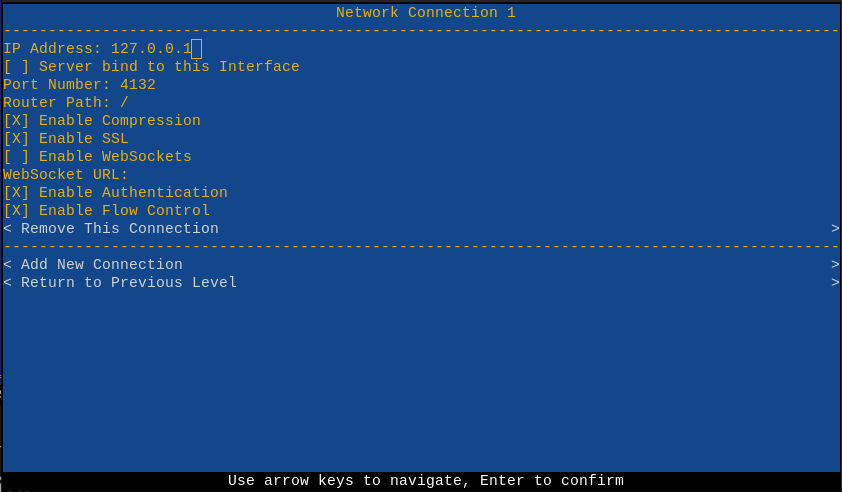
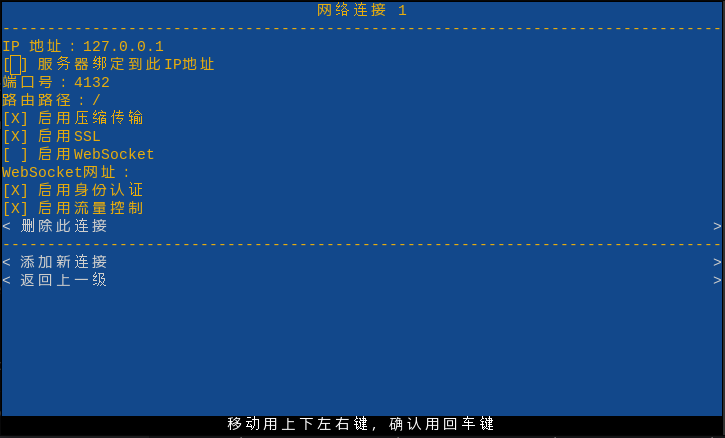
. tools/README_cn.md, rpcfgtui-config-list.png, rpcfgtui-connection-page.png, rpcfgtui-main-menu.png, rpcfgtui-multihop-page.png, rpcfgtui-security-page.png: Switched the language to Chinese and added figures for security page and multihop page.

Changed region(s): [[0.0, 0.0, 1.0, 0.653], [0.0, 0.9498, 1.0, 1.0], [0.971, 0.4452, 1.0, 0.653]]

diff --git a/tools/README_cn.md b/tools/README_cn.md
@@ -97,9 +97,14 @@
       ![`rpcfgtui` main menu](../pics/rpcfgtui-main-menu.png)
     * 下图是连接页   
       ![`rpcfgtui` connection page](../pics/rpcfgtui-connection-page.png)
-    * 由于安全页面和级联页面的输入项和rpcfg.py的一一对应，因此这里就不赘述了，参考上面的文档即可。
+    * 下图是安全页   
+      ![`rpcfgtui` security page](../pics/rpcfgtui-security-page.png)
+    * 下图是级联页   
+      ![`rpcfgtui` connection page](../pics/rpcfgtui-multihop-page.png)
+    * 以上各图中的选项说明可参考`rpcfg.py`。
     * 下图是配置清单页，它给出当前修改后的缓存的设置。只有在最后选择`提交修改`按钮后才能变成系统设置。  
       ![`rpcfgtui` config list](../pics/rpcfgtui-config-list.png)
+    
 
 # 快速构建rpc-frmwrk的方法
 ## Docker容器
